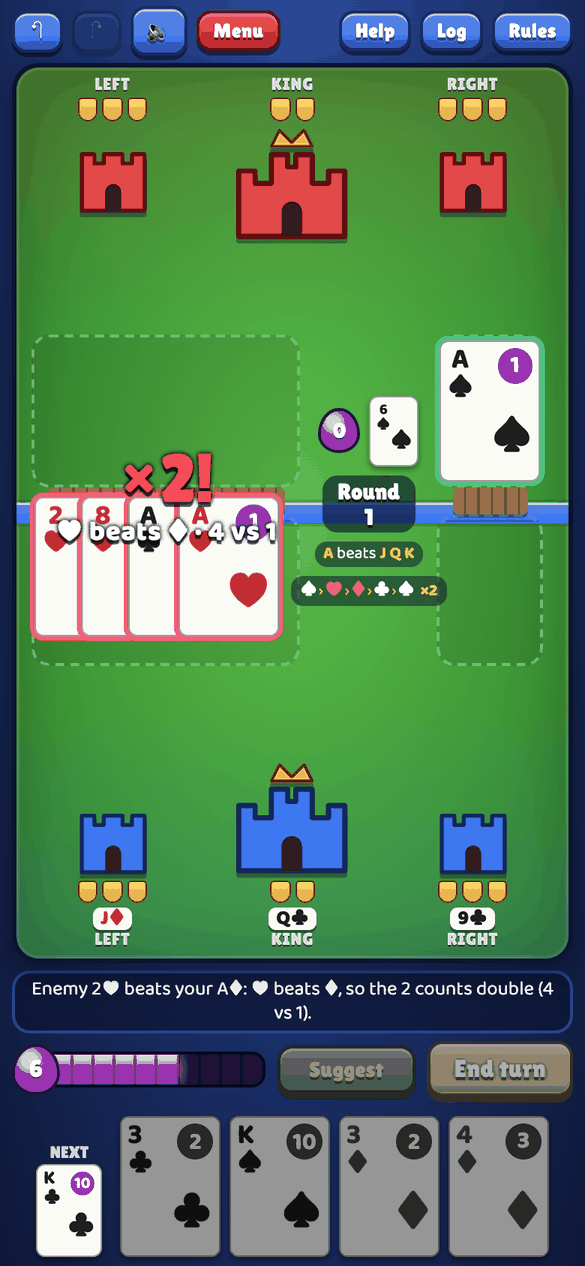
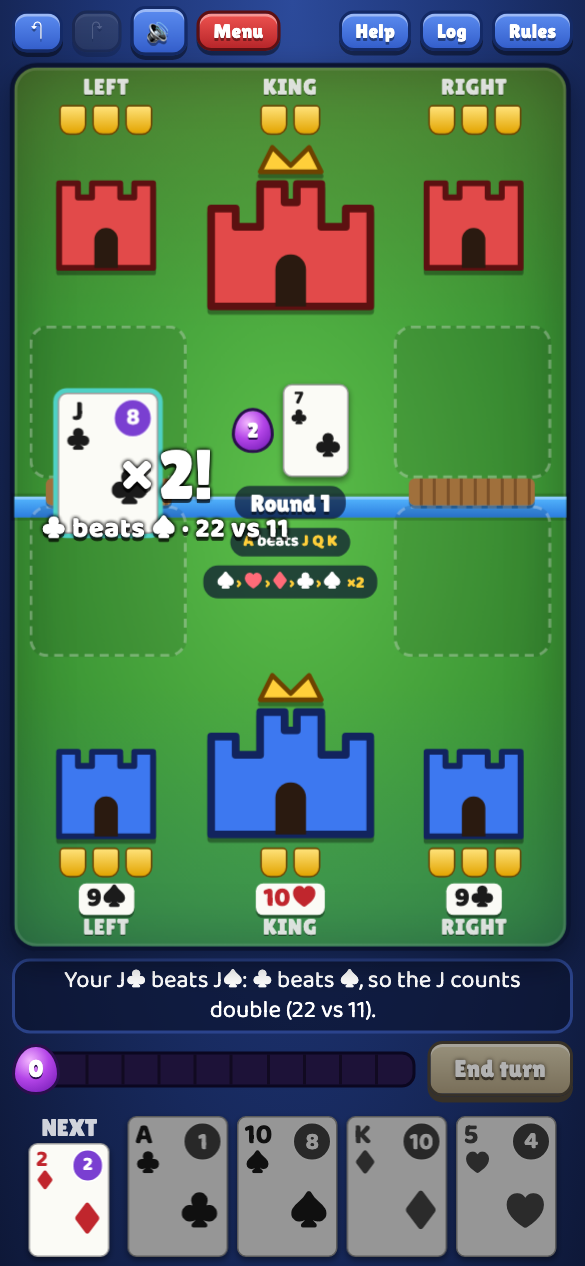
Make the battlefield and its text bigger
- Towers 1.5x wider, with bigger armor pips, top-card badge and names
- Your NEXT card and its label together match a hand card's height
- Enemy's next card in the middle is two-thirds of a card instead of half
- Round, "A beats J Q K" and the suit wheel scale with the cards, capped to the middle column's width
- Bigger tip box, tip buttons and turn message
- Retake the arena screenshot in the README

diff --git a/app/src/App.css b/app/src/App.css
@@ -512,18 +512,18 @@ details.help[open] > summary { margin-bottom: 8px; }
 .castles.theirs { align-items: start; }
 .castle { display: flex; flex-direction: column; align-items: center; gap: 1px; line-height: 1; cursor: default; }
 .castles.theirs .castle { flex-direction: column-reverse; }
-.castle .cart { width: calc(var(--cw) * 1.0); height: calc(var(--cw) * .875); fill: #3d78f0; stroke: #12245e; stroke-width: 2.5; stroke-linejoin: round; filter: drop-shadow(0 3px 0 rgba(0,0,0,.35)); }
+.castle .cart { width: calc(var(--cw) * 1.5); height: calc(var(--cw) * 1.31); fill: #3d78f0; stroke: #12245e; stroke-width: 2.5; stroke-linejoin: round; filter: drop-shadow(0 3px 0 rgba(0,0,0,.35)); }
 .castle.theirs .cart { fill: #e24a4a; stroke: #5c1111; }
-.castle.king .cart { width: calc(var(--cw) * 1.3); height: calc(var(--cw) * 1.14); }
+.castle.king .cart { width: calc(var(--cw) * 1.95); height: calc(var(--cw) * 1.71); }
 .castle .cart .door { fill: #2a1a10; stroke: none; }
 .castle .cart .crown { fill: var(--gold); stroke: var(--gold-ink); stroke-width: 1.5; }
 .castle.fallen .cart { fill: #6b6b6b; stroke: #333; opacity: .45; }
-.castle .armor { display: flex; gap: 3px; margin: 2px 0; }
-.castle .armor i { width: calc(var(--cw) * .17); height: calc(var(--cw) * .2); min-width: 8px; min-height: 9px; border-radius: 3px 3px 7px 7px; background: linear-gradient(#ffe27a, #e3a400); border: 1.5px solid #6e4300; }
+.castle .armor { display: flex; gap: 4px; margin: 3px 0; }
+.castle .armor i { width: calc(var(--cw) * .24); height: calc(var(--cw) * .28); min-width: 8px; min-height: 9px; border-radius: 3px 3px 7px 7px; background: linear-gradient(#ffe27a, #e3a400); border: 1.5px solid #6e4300; }
 .castle .armor i.crk { background: linear-gradient(135deg, #c9a8ff 45%, #3b1d6e 45% 55%, #c9a8ff 55%); border-color: #3b1d6e; }
-.castle .topcard { font-weight: 800; font-size: max(11px, calc(var(--cw) * .2)); background: #fbfbf6; color: #1b1b1b; border-radius: 5px; padding: 1px 5px; box-shadow: 0 2px 0 rgba(0,0,0,.4); }
+.castle .topcard { font-weight: 800; font-size: max(12px, calc(var(--cw) * .27)); background: #fbfbf6; color: #1b1b1b; border-radius: 5px; padding: 1px 5px; box-shadow: 0 2px 0 rgba(0,0,0,.4); }
 .castle .topcard.red { color: #c0262d; }
-.castle .cname { font-family: var(--display); font-size: max(10px, calc(var(--cw) * .17)); color: rgba(255,255,255,.85); text-shadow: 0 1px 0 rgba(0,0,0,.6); text-transform: uppercase; letter-spacing: .04em; }
+.castle .cname { font-family: var(--display); font-size: max(11px, calc(var(--cw) * .22)); color: rgba(255,255,255,.85); text-shadow: 0 1px 0 rgba(0,0,0,.6); text-transform: uppercase; letter-spacing: .04em; }
 
 /* lanes */
 .lanes { position: relative; z-index: 1; flex: 1; min-height: 0; display: grid; grid-template-columns: 1fr minmax(0, .9fr) 1fr; }
@@ -537,11 +537,11 @@ details.help[open] > summary { margin-bottom: 8px; }
 .spot.slot.over { background: rgba(255,207,58,.38); }
 .droptag { position: absolute; bottom: 3px; font-family: var(--display); font-size: 11px; color: var(--gold); text-shadow: 0 1px 0 #000; pointer-events: none; }
 @keyframes droppulse { 50% { box-shadow: 0 0 14px rgba(255,207,58,.6); } }
-.lanes .mid { display: flex; flex-direction: column; align-items: center; justify-content: center; gap: 6px; text-align: center; z-index: 2; }
-.mid .round { font-family: var(--display); font-size: 15px; color: #fff; text-shadow: 0 2px 0 rgba(0,0,0,.5); background: rgba(11, 20, 48, .7); border-radius: 10px; padding: 2px 10px; }
-.mid .rule { font-size: 11px; line-height: 1.2; color: #fff; background: rgba(11, 20, 48, .55); border-radius: 8px; padding: 2px 6px; white-space: nowrap; }
+.lanes .mid { display: flex; flex-direction: column; align-items: center; justify-content: center; gap: 6px; text-align: center; z-index: 2; container-type: inline-size; }
+.mid .round { font-family: var(--display); font-size: max(14px, min(calc(var(--cw) * .36), 15cqi)); color: #fff; text-shadow: 0 2px 0 rgba(0,0,0,.5); background: rgba(11, 20, 48, .7); border-radius: 10px; padding: 2px 10px; }
+.mid .rule { font-size: max(11px, min(calc(var(--cw) * .3), 10cqi)); font-weight: 700; line-height: 1.2; color: #fff; background: rgba(11, 20, 48, .7); border-radius: 10px; padding: 3px 9px; white-space: nowrap; }
 .mid .rule b { color: var(--gold); }
-.mid .wheelmini i { font-style: normal; font-size: 13px; color: #fff; }
+.mid .wheelmini i { font-style: normal; font-size: 1.25em; color: #fff; }
 .mid .wheelmini i.r { color: #ff6b78; }
 .mid .wheelmini em { font-style: normal; color: var(--gold); margin: 0 1px; }
 .mid .wheelmini span { margin-left: 4px; color: var(--gold); font-weight: 800; }
@@ -554,7 +554,7 @@ details.help[open] > summary { margin-bottom: 8px; }
 
 /* the tray: what just happened, elixir, hand */
 .tray { flex: none; display: flex; flex-direction: column; gap: 5px; }
-.feed { min-height: 2.5em; display: flex; flex-direction: column; justify-content: center; font-size: 13px; line-height: 1.25; text-align: center; color: #fff; background: rgba(11, 20, 48, .7); border: 2px solid rgba(61, 95, 192, .6); border-radius: 12px; padding: 3px 10px; }
+.feed { min-height: 2.5em; display: flex; flex-direction: column; justify-content: center; font-size: 16px; line-height: 1.25; text-align: center; color: #fff; background: rgba(11, 20, 48, .7); border: 2px solid rgba(61, 95, 192, .6); border-radius: 12px; padding: 3px 10px; }
 .feed.warn { color: #ffc4c4; border-color: #b3261e; }
 .elixrow { display: flex; align-items: center; gap: 8px; }
 .elixrow .big { padding: 7px 16px; font-size: 16px; }
@@ -571,22 +571,23 @@ details.help[open] > summary { margin-bottom: 8px; }
 .arena.turn-enemy .handrow { opacity: .6; }
 .nextcard { display: flex; flex-direction: column; align-items: center; gap: 2px; }
 .nextcard .tcard { width: calc(var(--cw) * .66); height: calc(var(--ch) * .66); font-size: calc(var(--cw) * .19); }
-.nextcard.mine { margin-right: 6px; align-self: flex-end; }
-.nextcard.mine span { font-family: var(--display); font-size: 11px; color: rgba(255,255,255,.8); text-transform: uppercase; }
-.lanes .mid .nextcard .tcard { width: calc(var(--cw) * .5); height: calc(var(--ch) * .5); font-size: calc(var(--cw) * .15); }
+.nextcard.mine { --nl: max(11px, calc(var(--ch) * .17)); --nh: calc(var(--ch) - var(--nl) - 2px); height: var(--ch); margin-right: 6px; align-self: flex-end; }
+.nextcard.mine span { font-family: var(--display); font-size: var(--nl); line-height: 1; color: rgba(255,255,255,.8); text-transform: uppercase; }
+.nextcard.mine .tcard { width: calc(var(--nh) * .714); height: var(--nh); font-size: calc(var(--nh) * .2); }
+.lanes .mid .nextcard .tcard { width: calc(var(--cw) * .66); height: calc(var(--ch) * .66); font-size: calc(var(--cw) * .19); }
 .arena .tcard .cost { right: 3px; top: 3px; width: 1.5em; height: 1.5em; font-size: .85em; border-width: 1px; }
 .arena .stepbar { bottom: calc(var(--ch) + 60px); }
 .arena .stepbar.over { bottom: 8px; }
 
 /* ---------- teaching by playing: one tip at a time over the field, the enemy waits while it is open ---------- */
-.coach { position: absolute; z-index: 45; left: 50%; transform: translateX(-50%); bottom: calc(var(--ch) + 104px); width: min(460px, calc(100% - 24px)); box-sizing: border-box;
+.coach { position: absolute; z-index: 45; left: 50%; transform: translateX(-50%); bottom: calc(var(--ch) + 112px); width: min(540px, calc(100% - 24px)); box-sizing: border-box;
   padding: 12px 16px; background: linear-gradient(#fffbea, #ffeeb0); color: #2a1d00; border: 3px solid var(--gold-d); border-radius: 16px; box-shadow: 0 0 0 3px #0b1430, 0 14px 30px rgba(0,0,0,.5);
   animation: stepin .2s ease-out; }
 .coach::after { content: ''; position: absolute; left: 50%; bottom: -12px; margin-left: -10px; border: 10px solid transparent; border-bottom: 0; border-top-color: var(--gold-d); }
-.coach p { margin: 0 0 8px; font-size: 15px; line-height: 1.35; font-weight: 600; }
+.coach p { margin: 0 0 10px; font-size: 18px; line-height: 1.35; font-weight: 600; }
 .coach .row { display: flex; align-items: center; gap: 12px; margin: 0; }
-.coach .big { padding: 6px 18px; font-size: 15px; }
-button.linkish { background: none; border: none; box-shadow: none; text-shadow: none; color: #6e4300; font-family: 'Baloo 2 Variable', system-ui, sans-serif; font-weight: 700; text-decoration: underline; padding: 4px; font-size: 13px; }
+.coach .big { padding: 7px 22px; font-size: 18px; }
+button.linkish { background: none; border: none; box-shadow: none; text-shadow: none; color: #6e4300; font-family: 'Baloo 2 Variable', system-ui, sans-serif; font-weight: 700; text-decoration: underline; padding: 4px; font-size: 16px; }
 button.linkish:active { transform: none; }
 .elixrow .hint:not(.green) { font-size: 14px; }
 
